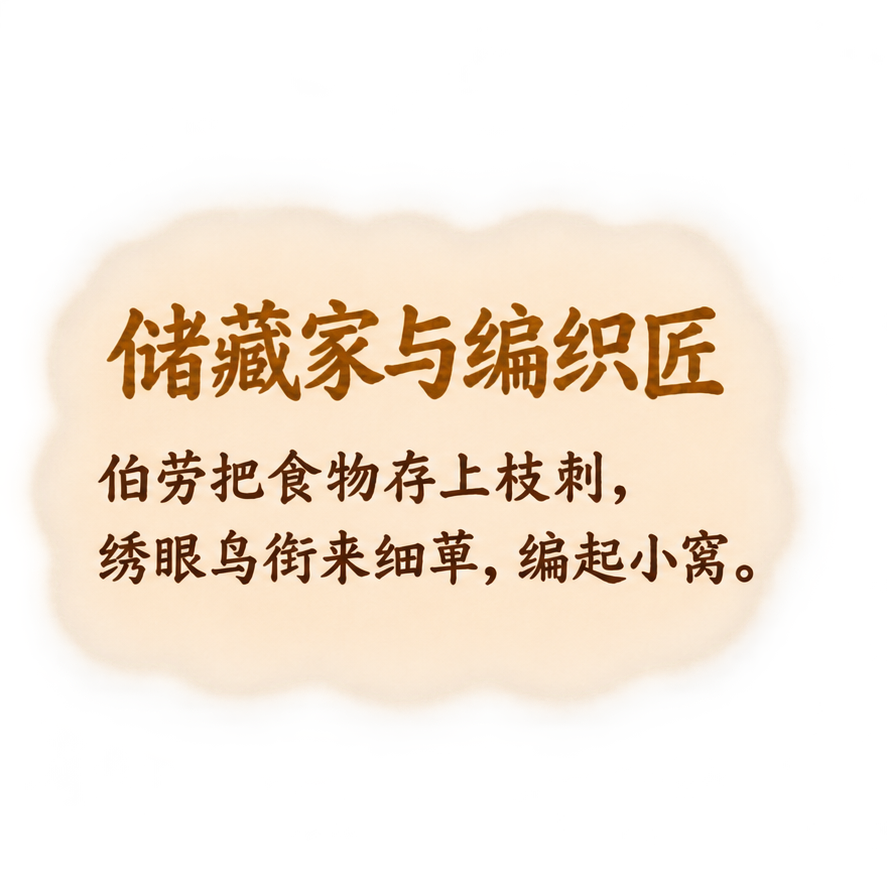
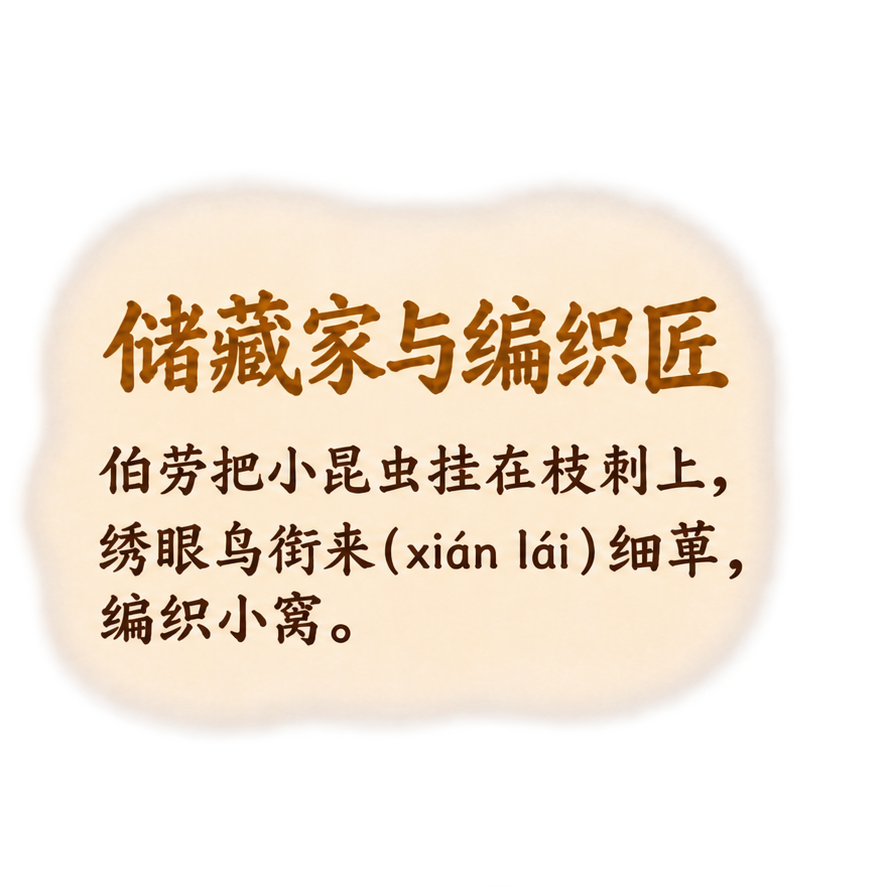
修订鸟类绘本文字注音与P16物种对应

diff --git a/鸟类绘本/正式素材/README.md b/鸟类绘本/正式素材/README.md
@@ -18,7 +18,7 @@ P1为寻找提示；P37为观察记录（含本页百科）；P38献辞、P39封
 | P4 | 书页飞起来了 | [1254×1254](01-第一章：飞向世界/P4｜书页飞起来了/无字图-1254px.png) | [887×887](01-第一章：飞向世界/P4｜书页飞起来了/标题与正文-透明底.png) | [887×887](01-第一章：飞向世界/P4｜书页飞起来了/鸟类小百科-透明底.png) | 通过 |
 | P5 | 城市里的麻雀 | [1254×1254](01-第一章：飞向世界/P5｜城市里的麻雀/无字图-1254px.png) | [902×887](01-第一章：飞向世界/P5｜城市里的麻雀/标题与正文-透明底.png) | [872×887](01-第一章：飞向世界/P5｜城市里的麻雀/鸟类小百科-透明底.png) | 通过 |
 | P6 | 布谷——布谷，声音地图 | [1254×1254](01-第一章：飞向世界/P6｜布谷——布谷，声音地图/无字图-1254px.png) | [887×887](01-第一章：飞向世界/P6｜布谷——布谷，声音地图/标题与正文-透明底.png) | [887×887](01-第一章：飞向世界/P6｜布谷——布谷，声音地图/鸟类小百科-透明底.png) | 通过 |
-| P7 | 枝头的布谷鸟 | [1254×1254](01-第一章：飞向世界/P7｜枝头的布谷鸟/无字图-1254px.png) | [887×887](01-第一章：飞向世界/P7｜枝头的布谷鸟/标题与正文-透明底.png) | [887×887](01-第一章：飞向世界/P7｜枝头的布谷鸟/鸟类小百科-透明底.png) | 通过 |
+| P7 | 枝头的布谷鸟 | [1254×1254](01-第一章：飞向世界/P7｜枝头的布谷鸟/无字图-1254px.png) | [887×887](01-第一章：飞向世界/P7｜枝头的布谷鸟/标题与正文-透明底.png) | [1254×1254](01-第一章：飞向世界/P7｜枝头的布谷鸟/鸟类小百科-透明底.png) | 通过 |
 | P8 | 夜晚的猫头鹰 | [1254×1254](01-第一章：飞向世界/P8｜夜晚的猫头鹰/无字图-1254px.png) | [894×887](01-第一章：飞向世界/P8｜夜晚的猫头鹰/标题与正文-透明底.png) | [880×887](01-第一章：飞向世界/P8｜夜晚的猫头鹰/鸟类小百科-透明底.png) | 通过 |
 | P9 | 湿地丹顶鹤 | [1254×1254](01-第一章：飞向世界/P9｜湿地丹顶鹤/无字图-1254px.png) | [887×887](01-第一章：飞向世界/P9｜湿地丹顶鹤/标题与正文-透明底.png) | [887×887](01-第一章：飞向世界/P9｜湿地丹顶鹤/鸟类小百科-透明底.png) | 通过 |
 | P10 | 雨林鹦鹉 | [1254×1254](01-第一章：飞向世界/P10｜雨林鹦鹉/无字图-1254px.png) | [887×887](01-第一章：飞向世界/P10｜雨林鹦鹉/标题与正文-透明底.png) | [887×887](01-第一章：飞向世界/P10｜雨林鹦鹉/鸟类小百科-透明底.png) | 通过 |
@@ -30,17 +30,17 @@ P1为寻找提示；P37为观察记录（含本页百科）；P38献辞、P39封
 | P16 | 大嗓门与小不点 | [1254×1254](02-第二章：寻找最美鸟鸣/P16｜大嗓门与小不点/无字图-1254px.png) | [887×887](02-第二章：寻找最美鸟鸣/P16｜大嗓门与小不点/标题与正文-透明底.png) | [887×887](02-第二章：寻找最美鸟鸣/P16｜大嗓门与小不点/鸟类小百科-透明底.png) | 通过 |
 | P17 | 月光里的歌 | [1254×1254](02-第二章：寻找最美鸟鸣/P17｜月光里的歌/无字图-1254px.png) | [887×887](02-第二章：寻找最美鸟鸣/P17｜月光里的歌/标题与正文-透明底.png) | [887×887](02-第二章：寻找最美鸟鸣/P17｜月光里的歌/鸟类小百科-透明底.png) | 通过 |
 | P18 | 清晨的合唱 | [1254×1254](02-第二章：寻找最美鸟鸣/P18｜清晨的合唱/无字图-1254px.png) | [887×887](02-第二章：寻找最美鸟鸣/P18｜清晨的合唱/标题与正文-透明底.png) | [887×887](02-第二章：寻找最美鸟鸣/P18｜清晨的合唱/鸟类小百科-透明底.png) | 通过 |
-| P19 | 湿地里的三位邻居 | [1254×1254](02-第二章：寻找最美鸟鸣/P19｜湿地里的三位邻居/无字图-1254px.png) | [887×887](02-第二章：寻找最美鸟鸣/P19｜湿地里的三位邻居/标题与正文-透明底.png) | [887×887](02-第二章：寻找最美鸟鸣/P19｜湿地里的三位邻居/鸟类小百科-透明底.png) | 通过 |
+| P19 | 湿地里的三位邻居 | [1254×1254](02-第二章：寻找最美鸟鸣/P19｜湿地里的三位邻居/无字图-1254px.png) | [887×887](02-第二章：寻找最美鸟鸣/P19｜湿地里的三位邻居/标题与正文-透明底.png) | [1254×1254](02-第二章：寻找最美鸟鸣/P19｜湿地里的三位邻居/鸟类小百科-透明底.png) | 通过 |
 | P20 | 把歌声画下来 | [1254×1254](02-第二章：寻找最美鸟鸣/P20｜把歌声画下来/无字图-1254px.png) | [887×887](02-第二章：寻找最美鸟鸣/P20｜把歌声画下来/标题与正文-透明底.png) | [887×887](02-第二章：寻找最美鸟鸣/P20｜把歌声画下来/鸟类小百科-透明底.png) | 通过 |
 | P21 | 第三章：隐身大师与特技演员 | [1254×1254](03-第三章：隐身大师与特技演员/P21｜第三章：隐身大师与特技演员/无字图-1254px.png) | [887×887](03-第三章：隐身大师与特技演员/P21｜第三章：隐身大师与特技演员/标题与正文-透明底.png) | [887×887](03-第三章：隐身大师与特技演员/P21｜第三章：隐身大师与特技演员/鸟类小百科-透明底.png) | 通过 |
 | P22 | 会移动的“小土块” | [1254×1254](03-第三章：隐身大师与特技演员/P22｜会移动的“小土块”/无字图-1254px.png) | [887×887](03-第三章：隐身大师与特技演员/P22｜会移动的“小土块”/标题与正文-透明底.png) | [887×887](03-第三章：隐身大师与特技演员/P22｜会移动的“小土块”/鸟类小百科-透明底.png) | 通过 |
 | P23 | 会悬停的蜂鸟 | [1254×1254](03-第三章：隐身大师与特技演员/P23｜会悬停的蜂鸟/无字图-1254px.png) | [887×887](03-第三章：隐身大师与特技演员/P23｜会悬停的蜂鸟/标题与正文-透明底.png) | [887×887](03-第三章：隐身大师与特技演员/P23｜会悬停的蜂鸟/鸟类小百科-透明底.png) | 通过 |
 | P24 | 风里的飞行高手 | [1254×1254](03-第三章：隐身大师与特技演员/P24｜风里的飞行高手/无字图-1254px.png) | [887×887](03-第三章：隐身大师与特技演员/P24｜风里的飞行高手/标题与正文-透明底.png) | [887×887](03-第三章：隐身大师与特技演员/P24｜风里的飞行高手/鸟类小百科-透明底.png) | 通过 |
 | P25 | 草原大鸟鸵鸟 | [1254×1254](03-第三章：隐身大师与特技演员/P25｜草原大鸟鸵鸟/无字图-1254px.png) | [887×887](03-第三章：隐身大师与特技演员/P25｜草原大鸟鸵鸟/标题与正文-透明底.png) | [887×887](03-第三章：隐身大师与特技演员/P25｜草原大鸟鸵鸟/鸟类小百科-透明底.png) | 通过 |
-| P26 | 南极企鹅 | [1254×1254](03-第三章：隐身大师与特技演员/P26｜南极企鹅/无字图-1254px.png) | [887×887](03-第三章：隐身大师与特技演员/P26｜南极企鹅/标题与正文-透明底.png) | [887×887](03-第三章：隐身大师与特技演员/P26｜南极企鹅/鸟类小百科-透明底.png) | 通过 |
+| P26 | 南极企鹅 | [1254×1254](03-第三章：隐身大师与特技演员/P26｜南极企鹅/无字图-1254px.png) | [887×887](03-第三章：隐身大师与特技演员/P26｜南极企鹅/标题与正文-透明底.png) | [1254×1254](03-第三章：隐身大师与特技演员/P26｜南极企鹅/鸟类小百科-透明底.png) | 通过 |
 | P27 | 溪流里的蓝宝石 | [1254×1254](03-第三章：隐身大师与特技演员/P27｜溪流里的蓝宝石/无字图-1254px.png) | [887×887](03-第三章：隐身大师与特技演员/P27｜溪流里的蓝宝石/标题与正文-透明底.png) | [887×887](03-第三章：隐身大师与特技演员/P27｜溪流里的蓝宝石/鸟类小百科-透明底.png) | 通过 |
 | P28 | 大网兜与“倒立鸭” | [1254×1254](03-第三章：隐身大师与特技演员/P28｜大网兜与“倒立鸭”/无字图-1254px.png) | [887×887](03-第三章：隐身大师与特技演员/P28｜大网兜与“倒立鸭”/标题与正文-透明底.png) | [887×887](03-第三章：隐身大师与特技演员/P28｜大网兜与“倒立鸭”/鸟类小百科-透明底.png) | 通过 |
-| P29 | 还有空白的一页 | [1254×1254](03-第三章：隐身大师与特技演员/P29｜还有空白的一页/无字图-1254px.png) | [887×887](03-第三章：隐身大师与特技演员/P29｜还有空白的一页/标题与正文-透明底.png) | [887×887](03-第三章：隐身大师与特技演员/P29｜还有空白的一页/鸟类小百科-透明底.png) | 通过 |
+| P29 | 还有空白的一页 | [1254×1254](03-第三章：隐身大师与特技演员/P29｜还有空白的一页/无字图-1254px.png) | [1254×1254](03-第三章：隐身大师与特技演员/P29｜还有空白的一页/标题与正文-透明底.png) | [887×887](03-第三章：隐身大师与特技演员/P29｜还有空白的一页/鸟类小百科-透明底.png) | 通过 |
 | P30 | 第四章：鸟儿怎样生活 | [1254×1254](04-第四章：鸟儿怎样生活/P30｜第四章：鸟儿怎样生活/无字图-1254px.png) | [887×887](04-第四章：鸟儿怎样生活/P30｜第四章：鸟儿怎样生活/标题与正文-透明底.png) | [887×887](04-第四章：鸟儿怎样生活/P30｜第四章：鸟儿怎样生活/鸟类小百科-透明底.png) | 通过 |
 | P31 | 林下的漂亮邻居 | [1254×1254](04-第四章：鸟儿怎样生活/P31｜林下的漂亮邻居/无字图-1254px.png) | [887×887](04-第四章：鸟儿怎样生活/P31｜林下的漂亮邻居/标题与正文-透明底.png) | [887×887](04-第四章：鸟儿怎样生活/P31｜林下的漂亮邻居/鸟类小百科-透明底.png) | 通过 |
 | P32 | 竹林里的野生亲戚 | [1254×1254](04-第四章：鸟儿怎样生活/P32｜竹林里的野生亲戚/无字图-1254px.png) | [887×887](04-第四章：鸟儿怎样生活/P32｜竹林里的野生亲戚/标题与正文-透明底.png) | [887×887](04-第四章：鸟儿怎样生活/P32｜竹林里的野生亲戚/鸟类小百科-透明底.png) | 通过 |
@@ -72,7 +72,7 @@ P1为寻找提示；P37为观察记录（含本页百科）；P38献辞、P39封
[8 lines of base64/hex data omitted]

diff --git a/鸟类绘本/正式制图剧本.md b/鸟类绘本/正式制图剧本.md
@@ -121,7 +121,7 @@
 小满靠着大树，抬头找到了歌手。  
 “原来，声音也会带路呀！”
 
-**鸟类小百科：** 许多成年大杜鹃有灰色的头胸、浅色带横纹的腹部和长尾巴。观察时，记得也看看它停在哪里、怎样活动。
+**鸟类小百科：** 书里的布谷鸟是大杜鹃（dà dù juān）。它的头和胸部呈灰色，浅色腹部有细横纹，尾巴细长。
 
 ### P8｜夜晚的猫头鹰
 
@@ -208,22 +208,23 @@
 
 **绘本文字：**
 
-八哥、鹩哥一声接一声，  
-鹊鸲唱出清亮的调子。  
+八哥、鹩哥（liáo gē）一声接一声，  
+鹊鸲（què qú）唱出清亮的调子。  
 “这一声，又是谁唱的？”
 
-**鸟类小百科：** 八哥和鹩哥有模仿声音的能力，但并非每只都会说人话。鹊鸲也叫“四喜鸟”，歌声丰富多变。
+**鸟类小百科：** 八哥和鹩哥（liáo gē）能模仿一些声音，但不是每只都会模仿人声。鹊鸲（què qú）也叫“四喜鸟”，歌声丰富多变。
 
 ### P16｜大嗓门与小不点
 
-**画面建议：** 潮湿山谷中有溪流、蕨类与远处小瀑布，小满站在有护栏的安全石径上观察。白喉噪鹛在较高灌丛中合唱，体型更小的鹪鹩翘尾停在近处苔藓石旁。用轻巧蓝色或珊瑚色声波提示鸣叫，不夸大体型。小满穿青绿色防水外套、长裤、防水雨靴和固定好的软帽。
+**画面建议：** 魔法书页连接不同的家园，用原有连续山谷画面作比较，不表示三种鸟自然同域。保留溪流、蕨类、远处瀑布、安全石径与护栏，以及小满青绿色防水外套、长裤、雨靴、软帽、双手和统一录音机。上左三只鸟中，最上及左下两只为斑胸噪鹛，黄褐喉胸有黑褐纵斑纹；最靠右一只为橙翅噪鹛，灰褐头身、浅色虹膜，折叠翼有金橙黄与蓝灰羽区。下左苔石上是一只更小的号声鹪鹩，灰褐头背、浅眉纹、浅暖灰奶油胸腹、细暗翼尾纹和上翘短尾。保留原位置与数量，不画白喉围兜，不换成通用噪鹛或歌鹪鹩。轻巧蓝色、珊瑚色声波提示鸣叫，不加金色布谷音符或文字标签。
 
 **绘本文字：**
 
-噪鹛热闹地合唱，鹪鹩也开了嗓。  
-小小的身体，藏着亮亮的歌声。
+书页这头，噪鹛（zào méi）放声唱。  
+书页那头，号声鹪鹩（hào shēng jiāo liáo）也唱了起来。  
+小小的身体，藏着响亮的歌声。
 
-**鸟类小百科：** 许多噪鹛喜欢结群活动，叫声响亮。鹪鹩体型小巧、尾巴常向上翘，歌声却很有穿透力。
+**鸟类小百科：** 亚洲山林里有斑胸噪鹛（bān xiōng zào méi）和橙翅噪鹛（chéng chì zào méi）。号声鹪鹩（hào shēng jiāo liáo）则住在墨西哥的克拉里翁岛。书页连接了不同的家园。
 
 ### P17｜月光里的歌
 
@@ -232,9 +233,9 @@
 **绘本文字：**
 
 夜鹰追着飞虫掠过暮色。  
-再翻一页，夜莺的歌像小溪流淌。
+再翻一页，夜莺（yè yīng）的歌像小溪流淌。
 
-**鸟类小百科：** 夜鹰多在黄昏和夜间捕食飞虫。夜莺歌声多变，白天也会鸣唱。
+**鸟类小百科：** 夜莺一般指新疆歌鸲（xīn jiāng gē qú），白天也会鸣唱。夜鹰则常在黄昏和夜间捕食飞虫。
 
 ### P18｜清晨的合唱
 
@@ -256,7 +257,7 @@
 嘘，黑水鸡游过来了！  
 我把它的叫声录下来。
 
-**鸟类小百科：** 白鹭和苍鹭常在浅水中觅食。黑水鸡会游泳，也能在水边行走；它与白额的骨顶鸡不是同一种鸟。
+**鸟类小百科：** 白鹭（bái lù）和苍鹭（cāng lù）常在浅水中觅食。黑水鸡会游泳，也能沿水边行走。图中它的红额甲和黄嘴尖，就是辨认线索。
 
 ### P20｜把歌声画下来
 
@@ -289,10 +290,10 @@
 **绘本文字：**
 
 “小土块怎么会走路？”  
-羽羽轻声说：“那是鹌鹑。  
-那边的鹧鸪，也很会躲藏。”
+羽羽轻声说：“那是鹌鹑（ān chún）。  
+那边的鹧鸪（zhè gū），也很会躲藏。”
 
-**鸟类小百科：** 鹌鹑、鹧鸪常在地面活动，也能够飞行。它们羽毛上的颜色和斑纹有助于融入草丛与地面。
+**鸟类小百科：** 鹌鹑（ān chún）和鹧鸪（zhè gū）常在地面活动，也能够飞行。它们羽毛的颜色和斑纹，能让身体融入草丛和地面，不容易被发现。
 
 ### P23｜会悬停的蜂鸟
 
@@ -311,10 +312,10 @@
 
 **绘本文字：**
 
-兀鹫乘风盘旋，游隼俯冲而下。  
+兀鹫（wù jiù）乘风盘旋，游隼（yóu sǔn）俯冲而下。  
 “我录到了风，也记住了飞翔。”
 
-**鸟类小百科：** 游隼高速俯冲时，是速度最快的鸟类之一；这与平飞速度不同。兀鹫善于借助上升气流盘旋。
+**鸟类小百科：** 游隼（yóu sǔn）高速俯冲时，是速度最快的鸟类之一。兀鹫（wù jiù）借助上升气流盘旋，能少拍翅膀、节省力气。
 
 ### P25｜草原大鸟鸵鸟
 
@@ -336,7 +337,7 @@
 企鹅在冰上摇摇摆摆，  
 一进海里，就成了小潜水员。
 
-**鸟类小百科：** 企鹅是不会飞的鸟，鳍状的翅膀能帮助它们游泳。并不是所有企鹅都生活在南极。
+**鸟类小百科：** 企鹅不会飞。它们的翅膀呈鳍状（qí zhuàng），能帮助它们在水中游动。并不是所有企鹅都住在南极。
 
 ### P27｜溪流里的蓝宝石
 
@@ -355,10 +356,10 @@
 
 **绘本文字：**
 
-鹈鹕张开“大网兜”，  
+鹈鹕（tí hú）张开“大网兜”，  
 绿头鸭翘起尾巴，表演水上倒立。
 
-**鸟类小百科：** 鹈鹕可用喉囊帮助捕鱼，并排出兜进来的水。绿头鸭等一些鸭类会头朝下、尾朝上，在浅水中觅食。
+**鸟类小百科：** 鹈鹕（tí hú）用喉囊帮助捕鱼，再把兜进来的水排出去。绿头鸭会把头伸进浅水里、尾巴翘起来，寻找水下的食物。
 
 ### P29｜还有空白的一页
 
@@ -379,10 +380,10 @@
 
 **绘本文字：**
 
-林下、竹径，还有落满橡果的树林。  
+林下、竹径，还有落满橡果的树林（shù lín）。  
 最后一段旅程，看看鸟儿怎样生活。
 
-**鸟类小百科：** 鸟会寻找食物、休息和繁殖。林下、竹林和树冠里，藏着不同的生活线索。
+**鸟类小百科：** 鸟会寻找食物、休息和繁殖。林下、竹林和树冠（shù guān）里，藏着不同的生活线索。
 
 ### P31｜林下的漂亮邻居
 
@@ -390,10 +391,10 @@
 
 **绘本文字：**
 
-锦鸡披彩衣，白鹇拖长尾。  
-竹鸡一开嗓，小满的耳朵也忙起来。
+锦鸡披彩衣，白鹇（bái xián）拖长尾。  
+竹鸡放声叫，小满停下来听。
 
-**鸟类小百科：** 白鹇、锦鸡和竹鸡都属于鸡形目，常在地面活动。雄白鹇和雄红腹锦鸡的羽色尤其醒目。
+**鸟类小百科：** 白鹇（bái xián）、红腹锦鸡和竹鸡都属于鸡形目，常在地面活动。雄白鹇和雄红腹锦鸡的羽色尤其醒目。
 
 ### P32｜竹林里的野生亲戚
 
@@ -402,9 +403,11 @@
 **绘本文字：**
 
 “是农场里的公鸡吗？”  
-“这是原鸡，和家鸡是老亲戚呢。”
+“这是原鸡，和家鸡是老亲戚（qīn qi）呢。”
 
-**鸟类小百科：** 原鸡是家鸡的主要野生祖先。雄鸟通常羽色鲜艳，雌鸟的羽色较朴素，有利于隐蔽。
+**鸟类小百科：** 红原鸡是家鸡的主要野生祖先。雄鸟通常羽色鲜艳，雌鸟（cī niǎo）的羽色较朴素，有利于隐蔽（yǐn bì）。
+
+**图内标题：** 竹林里的野生亲戚（qīn qi）；文件夹及本节标题不含注音。
 
 ### P33｜储藏家与编织匠
 
@@ -412,10 +415,10 @@
 
 **绘本文字：**
 
-伯劳把食物存上枝刺，  
-绣眼鸟衔来细草，编起小窝。
+伯劳把小昆虫挂在枝刺上，  
+绣眼鸟衔来（xián lái）细草，编织小窝。
 
-**鸟类小百科：** 有些伯劳会把猎物固定在尖刺上，便于处理或储存。绣眼鸟能利用细草、蛛丝等材料筑巢。
+**鸟类小百科：** 有些伯劳会把猎物固定在尖刺上，便于处理或储藏（chǔ cáng）。绣眼鸟用细草、蛛丝等材料筑巢。
 
 ### P34｜秋林里的藏宝家
 
@@ -423,10 +426,10 @@
 
 **绘本文字：**
 
-松鸦藏好橡果，又飞去找下一颗。  
+松鸦（sōng yā）把橡果藏好，又飞去找下一颗。  
 “原来，你是森林里的藏宝家。”
 
-**鸟类小百科：** 松鸦会储藏橡果等食物。一些没有被取回、又遇到适宜条件的种子，可能发芽长成小树。
+**鸟类小百科：** 松鸦（sōng yā）会储藏（chǔ cáng）橡果等食物。没有被取回的种子，如果遇到适宜的条件，就可能发芽（fā yá），长成小树。
 
 ### P35｜风暴中的火烈鸟与军舰鸟
 

diff --git a/鸟类绘本/制图约束规范.md b/鸟类绘本/制图约束规范.md
@@ -97,6 +97,22 @@
 - 图内标题无页码不等于文件无页码，文件名仍保留P页码。
 - 逐字检查漏字、错字、重字、标点与段落；正文、知识和实际画面必须一致，不能删了某种鸟却保留其旁白。
 
+### 鸟名、注音与可读性
+
+- 先通读句意，再校对汉字和拼音，最后放大检查PNG笔画；提示词和OCR正确不能证明成品正确。使用规范简体字，避免鸟名形近替字。生僻词首次出现时加括号注音，拼音约为相邻汉字的60%—65%，保留声调与词内空格；不以挤小正文维持固定行数。
+- 本书统一：鹩哥（liáo gē）、鹊鸲（què qú）、噪鹛（zào méi）、号声鹪鹩（hào shēng jiāo liáo）、新疆歌鸲（xīn jiāng gē qú）、白鹭（bái lù）、苍鹭（cāng lù）、鹧鸪（zhè gū）、鹌鹑（ān chún）、兀鹫（wù jiù）、游隼（yóu sǔn）、鳍状（qí zhuàng）、鹈鹕（tí hú）、白鹇（bái xián）、亲戚（qīn qi）、雌鸟（cī niǎo）、隐蔽（yǐn bì）、衔来（xián lái）、松鸦（sōng yā）、储藏（chǔ cáng）、发芽（fā yá）。亲戚的qi为轻声；雌为第一声cī。
+- “嗓”（sǎng，口＋桑）与“噪”（zào，口＋喿）不可混写。P31正文用“竹鸡放声叫，小满停下来听”，不沿用错写的“一开噪”。P33用“绣眼鸟衔来细草，编织小窝”，完整说明筑巢动作。
+- P29等标题正文的暖奶油阅读底须覆盖所有文字及引号，并留余量；四周渐隐到透明，带轻柔暖灰阴影。分层母图的左右素材之间全高透明，阴影也不能连接或被裁断。
+- P32图内标题为“竹林里的野生亲戚（qīn qi）”，文件名仍按无注音标题归档；正文和百科以正式剧本为准。
+
+### P16物种与知识对应
+
+- 上左最上及左下两只为斑胸噪鹛，喉胸有黑褐纵斑；上左最靠右一只为橙翅噪鹛，灰褐身、浅色虹膜、金橙黄与蓝灰翼羽；下左苔石上为号声鹪鹩，灰褐头背、浅眉纹与浅色胸腹。保留小满、双手、录音机、四鸟位置和环境构图，只局部修改物种特征。
+- 号声鹪鹩为Clarion Wren（Troglodytes tanneri），居于墨西哥克拉里翁岛，不是歌鹪鹩。文案用魔法书页连接不同家园作比较，不宣称它与亚洲两种噪鹛自然同域。
+- P17“夜莺”一般指新疆歌鸲（Luscinia megarhynchos），不能与夜鹰混写。夜莺白天也会唱，夜鹰常在暮夜捕飞虫。
+
+物种核对依据：[Avibase号声鹪鹩](https://avibase.bsc-eoc.org/species.jsp?avibaseid=D80D50B47FFDA58F&lang=ZH)、[昆明动物研究所橙翅噪鹛](https://datacenter.kiz.ac.cn/DataBase/BirdDetail/935)、[中国生态系统研究网络斑胸噪鹛](https://wiki.biodiversity.cern.ac.cn/index.php/斑胸噪鹛)、[新疆林草局鸟名名录](https://lcj.xinjiang.gov.cn/lcj/zcwj/202108/15ac44664c20457e9472eb36b3cd9964.shtml)；读音核对见[《国语辞典简编本》“雌”](https://dict.concised.moe.edu.tw/dictView.jsp?ID=37762&la=0&powerMode=0)。参考照片只用于识别特征，不作为正式素材交付。
+
 ## 6. 重点连续性与人体比例
 
 - P20《把歌声画下来》的笔记本沿用确认的三行：灰色布谷鸟配金色双音符和紫色长线，小鸟配蓝色点，棕色小鸟配珊瑚色弧线；录音机真实波形与儿童手绘符号分开表达。

diff --git a/skills/childrens-picturebook-illustration/SKILL.md b/skills/childrens-picturebook-illustration/SKILL.md
@@ -72,6 +72,7 @@ Apply these constraints to this project. The user's latest confirmed correction 
 - **Yuyu / 羽羽 — visual model lock:** Yuyu is always a hoopoe, never a cockatiel/parrot. It has a warm buff-to-golden-brown body, a long slender slightly down-curved black bill, broad black-and-cream zebra-barred wings, and a fan-shaped cinnamon crest with distinct black tips. The crest may open or relax with emotion; the long tail ends in a bookmark-like ribbon/feather. Keep these identifiers in every appearance. **Never give Yuyu a cockatiel's round yellow face, orange cheek patches, short hooked parrot beak, or smooth all-yellow crest.**
 - **Cuckoo clue / 布谷鸟声音线索 — visual model lock:** The cuckoo is separate from Yuyu. The confirmed species features are: smooth uncrested slate-gray head and breast, dark gray-brown folded wings, pale belly with fine dark horizontal bars, yellow eye ring, slender straight bill, long dark tail with pale spots. When singing visibly, BOTH feet grip a branch, the body sits side-on roughly horizontally, the beak opens and the head lifts slightly. It does not cling vertically to a trunk like a woodpecker. Simplify into a cute cartoon without losing these identifiers. On pages needing only a hint, use two small golden note icons, sound rings or a distant silhouette. Keep it secondary unless the story centers on it.
 - **Knowledge label / 鸟类小百科:** story pages and chapter openers use a compact cream hand-journal fact sticker in a corner. Keep its exact fact text readable and outside faces, focal actions and story text. Covers, dedication and ending pages follow their specific manuscript roles (such as a feather-bookmark search prompt or parent-child task), rather than forcing a fact sticker onto every page.
+- **Species and pronunciation proofing:** review prose readability before drawing lettering, then inspect actual PNG glyphs, simplified bird radicals, tone marks and neutral tones. Follow the [bird name/pronunciation table](../../鸟类绘本/制图约束规范.md): 雌鸟 is cī niǎo, 亲戚 is qīn qi; 嗓 and 噪 are different characters. P16 compares 斑胸噪鹛、橙翅噪鹛 and the Mexican Clarion Wren (号声鹪鹩, Troglodytes tanneri), linked by magic book pages rather than claiming a shared natural habitat. Match their chest/wing/eyebrow features to the formal manuscript; do not reuse the old white-bibbed birds or substitute Musician Wren.
 
 ## 画面叙事：小满亲历场景
 

diff --git a/skills/childrens-picturebook-illustration/references/image-production.md b/skills/childrens-picturebook-illustration/references/image-production.md
@@ -23,6 +23,8 @@
 - 保留确认的手写笔锋、字重、字号、配色和行距，不用电脑字体替代手写字。标题正文带米白暖奶油渐变阅读底，四周自然渐隐透明；纸签保留纸张、标题条、叶饰及边框，纸外透明。
 - 棋盘格不能烘焙进成品。不得切字、切纸边或丢叶饰，须保留透明边距并检查RGBA和Alpha通道。
 - 按正式剧本逐字检查文案、标点、漏字、重字和断行，不打印页码、制作指令或未确认版权信息。OCR和源字符串不能代替最终PNG笔画检查。
+- 文字修订先通读句意，避免残缺主语、含糊指代与不自然搭配；然后检查规范简体字、鸟种和注音。拼音按词注音，准确保留声调、空格与轻声，小于汉字但仍清楚；长注音可自然换行，不强行压到旧行数。鸟类本书的专名与读音表见[鸟类约束](../../../鸟类绘本/制图约束规范.md)。
+- 阅读底须完整包住末字、括号与引号，四周有余量并渐隐到透明；阴影轻柔，不形成生硬截边。母图即使正文正确，若阴影连接左右两块也应重做，不能切掉文字或纸签解决。
 - 错字在用户指定图上局部修订，保留其余笔锋、字号、布局与背景；不为修一字重排整行。可记录修补区域并核对区域外像素。
 - P16正文`呜——呜——`的“乌”部无眼点，小百科`共鸣`保留“鸣”；P4保留已确认“咦”的字形。
 - 仅修订场景时，未被要求修改的文字PNG逐字节复用，不随场景尺寸改变独立素材分辨率。
